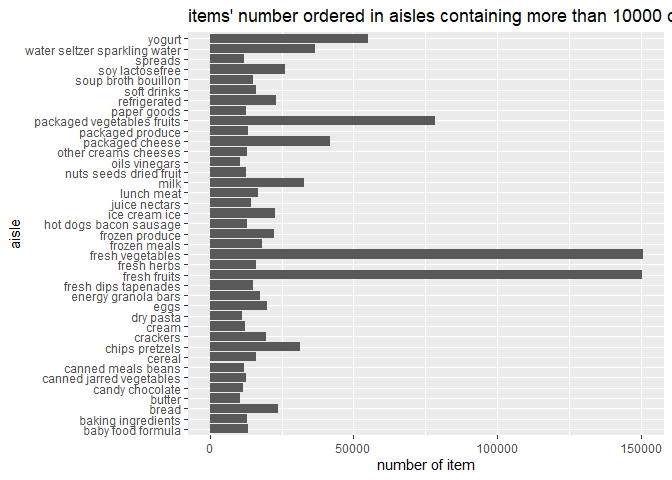
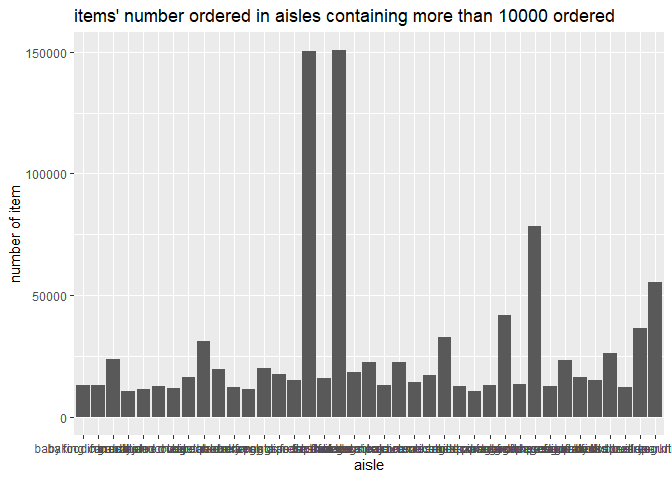
reoreder plot in problem 1

Changed region(s): [[0.0312, 0.0, 1.0, 1.0], [0.0, 0.375, 0.0312, 0.5938]]

diff --git a/p8105_hw3_xl2934.md b/p8105_hw3_xl2934.md
@@ -76,7 +76,12 @@ and `user_id` can help to make the dataframe more readable by using
 `pivot_wider`. `reordered` and variables about order time help us to
 analyse user’s behavior. For example, we can conclude that ice cream is
 the most frequently ordered products late at night by counting
-observations with ice cream in specific time period.
+observations with ice cream in specific time period. The observations
+contain information of every order, including basic information like
+order\_id, product name and id, aisle id name and id, and department
+name and id. Also, the observations also offer some information about
+shopping habits like order time, days\_since\_prior\_order and reordered
+condition.
 
   - How many aisles are there, and which aisles are the most items
     ordered from.?
@@ -88,15 +93,43 @@ aisle_count = instacart %>%
   group_by(aisle) %>% 
   summarize(n = n()) 
 
+str(aisle_count)
+```
+
+    ## Classes 'tbl_df', 'tbl' and 'data.frame':    134 obs. of  2 variables:
+    ##  $ aisle: chr  "air fresheners candles" "asian foods" "baby accessories" "baby bath body care" ...
+    ##  $ n    : int  1067 7007 306 328 13198 1501 13088 1094 287 1839 ...
+    ##  - attr(*, "spec")=
+    ##   .. cols(
+    ##   ..   order_id = col_integer(),
+    ##   ..   product_id = col_integer(),
+    ##   ..   add_to_cart_order = col_integer(),
+    ##   ..   reordered = col_integer(),
+    ##   ..   user_id = col_integer(),
+    ##   ..   eval_set = col_character(),
+    ##   ..   order_number = col_integer(),
+    ##   ..   order_dow = col_integer(),
+    ##   ..   order_hour_of_day = col_integer(),
+    ##   ..   days_since_prior_order = col_integer(),
+    ##   ..   product_name = col_character(),
+    ##   ..   aisle_id = col_integer(),
+    ##   ..   department_id = col_integer(),
+    ##   ..   aisle = col_character(),
+    ##   ..   department = col_character()
+    ##   .. )
+
+``` r
 aisle_count %>% 
   filter(min_rank(desc(n)) == 1) %>% 
   knitr::kable()
 ```
 
-| aisle               |                                                             n |
-| :------------------ | ------------------------------------------------------------: |
-| fresh vegetables    |                                                        150609 |
-| There are 134 aisle | s in total. Fresh vegetables are the most items ordered from. |
+| aisle            |      n |
+| :--------------- | -----: |
+| fresh vegetables | 150609 |
+
+There are 134 aisles in total. Fresh vegetables are the most items
+ordered from.
 
   - Make a plot that shows the number of items ordered in each aisle,
     limiting this to aisles with more than 10000 items ordered. Arrange
@@ -105,12 +138,14 @@ aisle_count %>%
 <!-- end list -->
 
 ``` r
-aisle_count %>% 
+aisle_count = 
+  aisle_count %>% 
   filter(n > 10000) %>% 
-  arrange(n) %>% 
+  arrange(n)
+
+aisle_count %>% 
   ggplot(aes(x = aisle, y = n)) + 
   geom_bar(stat = "identity") +
-  coord_flip() +
   labs(
     title = "items' number ordered in aisles containing more than 10000 ordered",
     y = "number of item"
